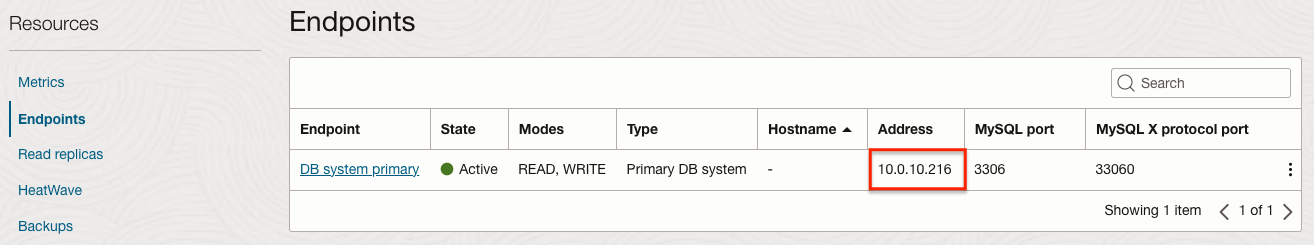
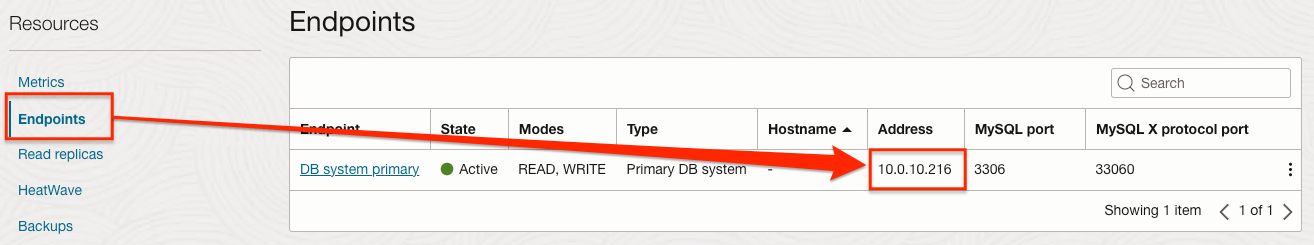
feedback 반영

Changed region(s): [[0.0624, 0.4571, 0.6553, 0.7429], [0.0, 0.5429, 0.0936, 0.6], [0.0, 0.3714, 0.0936, 0.4286]]

diff --git a/learning-library/oci-library/oci-hol-ko/oci-bootcamp-for-oke/setup-required-services/setup-required-services.md b/learning-library/oci-library/oci-hol-ko/oci-bootcamp-for-oke/setup-required-services/setup-required-services.md
@@ -76,7 +76,7 @@
 
 6. DB system 타입: **Standalone**을 선택합니다.
 
-7. Configure networking: OKE 클러스터의 Worker Node가 속한 서브넷을 선택합니다.
+7. Configure networking: OKE 클러스터의 *Worker Node가 속한 서브넷*을 선택합니다.
 
     ![Networking](images/mysql-configure-networking.png " ")
 
@@ -93,14 +93,16 @@
 
 11. Create 버튼을 클릭하여, DB를 생성합니다.    
 
-12. 일단 시작되면 MySQL DB가 프로비저닝됩니다. 위 설정기준으로 Active 상태로 되기까지, 약 10~15분 정도 걸립니다.
+12. 일단 시작되면 MySQL DB가 프로비저닝됩니다. 위 설정기준으로 Active 상태로 되기까지, *약 10~15분 정도 걸립니다.*
 
 
 ## Task 3: Cloud Shell에서 생성한 MySQL 접근하기
 
+**MySQL DB가 아직 프로비저닝 중이라면, 기다리는 동안 [Task 4](#Task4:Redis)를 먼저 진행합니다.**
+
 1. 생성된 MySQL의 DB System 상세정보를 확인합니다.
 
-2. 왼쪽 아래 Resources > Endpoints를 클릭하여, Endpoint 주소와 Port를 확인합니다. 
+2. 왼쪽 아래 **Resources** > **Endpoints**를 클릭하여, Endpoint 주소와 Port를 확인합니다. 
 
     *Endpoint 주소는 생성시 지정한 서브넷상의 Private IP임을 유의합니다.*
 
@@ -192,7 +194,7 @@
 
 5. 다음으로 네트워크를 구성합니다.
 
-    - 사용할 VCN과 서브넷을 선택합니다. OKE 클러스터의 Worker Node가 속한 서브넷을 선택합니다.
+    - 사용할 VCN과 서브넷을 선택합니다. OKE 클러스터의 *Worker Node가 속한 서브넷*을 선택합니다.
     - *생성된 Redis 클러스터는 Private Endpoint만 제공하여, Public Subnet을 선택하셔도 인터넷에서 접속은 불가합니다.*
 
     ![Redis Configure Networking](images/redis-create-cluster-configure-networking.png " ")
@@ -203,9 +205,10 @@
 
 8. 동적 변경을 확인하기 위해, 생성된 클러스터 정보에서 **Resize nodes**를 클릭하여, 2개로 변경합니다.
 
-    ![Redis Resize Nodes](images/redis-resize-nodes.png " ")
+    ![Redis Resize Nodes](images/redis-resize-nodes-1.png " ")
+    ![Redis Resize Nodes](images/redis-resize-nodes-2.png " ")
 
-9. 여기서는 변경완료를 기다리지말고 다음으로 넘어갑니다.
+9. 여기서는 *변경완료를 기다리지말고 다음으로 넘어갑니다.*
 
 ## Task 5: Cloud Shell에서 생성한 Redis 클러스터 접근하기
 
@@ -232,11 +235,12 @@
     <copy>
     #!/usr/bin/bash
     cd /tmp
-    wget http://download.redis.io/redis-stable.tar.gz
+    wget https://download.redis.io/redis-stable.tar.gz
     tar xvzf redis-stable.tar.gz
     cd redis-stable
     make distclean
     make redis-cli BUILD_TLS=yes
+    mkdir -p ~/.local/bin 
     cp src/redis-cli ~/.local/bin
     chmod 755 ~/.local/bin/redis-cli
 
